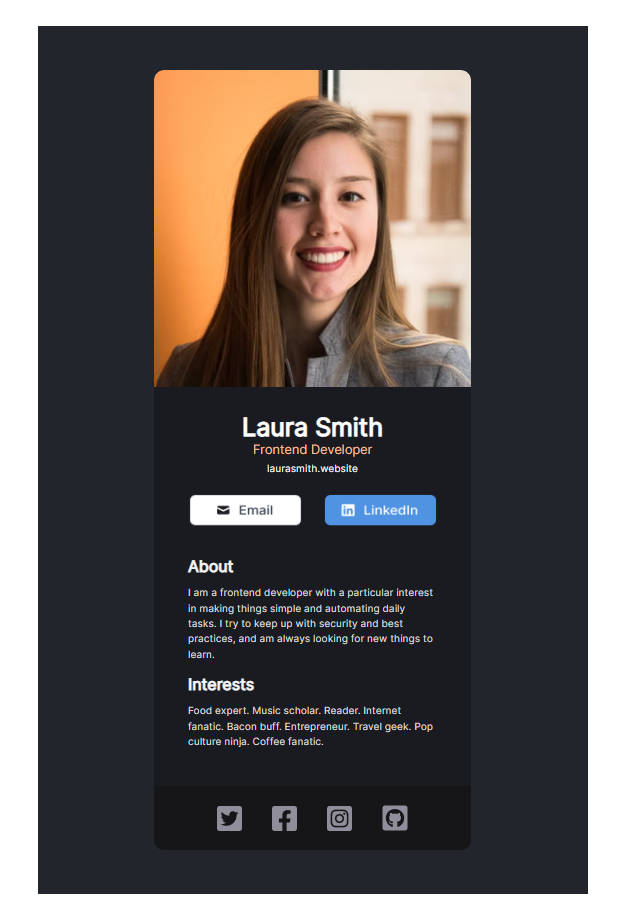
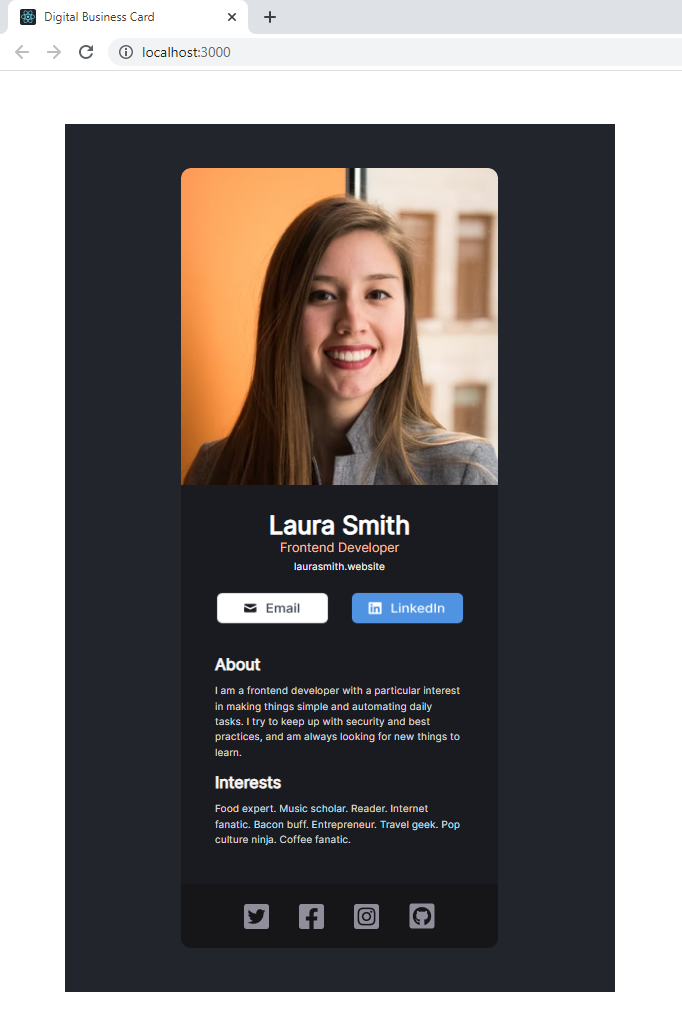
new screenshot, minor changes

diff --git a/public/index.html b/public/index.html
@@ -26,7 +26,7 @@
       work correctly both with client-side routing and a non-root public URL.
       Learn how to configure a non-root public URL by running `npm run build`.
     -->
-    <title>React App</title>
+    <title>Digital Business Card</title>
   </head>
   <body>
     <noscript>You need to enable JavaScript to run this app.</noscript>

diff --git a/README.md b/README.md
@@ -1,7 +1,7 @@
 # Static React Business Card
 
 
-This is a just a Solo Project Challenge from Scrimba.com. The challenge is to create a static/noninteractive react page for a digital business card using a Figma.com design. Images are from the Figma design.
+This is a just a Solo Project Challenge from Scrimba.com. The challenge is to create a static/noninteractive react page that looks like one of the digital business cards found on Figma.com. This project was created locally using Create React App for bootstrapping (Scrimba encourages using their online environment).
 
 
 * https://scrimba.com/learn/learnreact/
@@ -12,7 +12,7 @@ This is a just a Solo Project Challenge from Scrimba.com. The challenge is to cr
 
 #
 
-Screenshot below:
+Screenshot of development build below:
 
 ![Screenshot](images/screenshot.png) 
 
